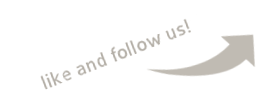
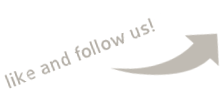
Updated arrow image and reset css

diff --git a/wp-content/themes/liquorice/style.css b/wp-content/themes/liquorice/style.css
@@ -166,13 +166,14 @@ div#site-title-div{
 	text-align:center;
 }
 .main-menu ul{
-    width: 598px;
+    width: 695px;
     margin: 0px auto;
 }
 .main-menu ul li {
 	float:left;
 	list-style:none;
 	position:relative; 
+        letter-spacing: 0px;
 }
 .ie6 .main-menu ul,
 .ie6 .main-menu ul li { 
@@ -181,7 +182,7 @@ div#site-title-div{
 .main-menu li a {
 	color: #0c2b43; 
 	display:block;
-	padding:10px 15px;
+	padding:12px 15px;
 	text-align:center;
 }
 .main-menu li a:hover {
@@ -254,9 +255,9 @@ div#site-title-div{
 #primaryContent {
 	clear:both;
  	float: left;
-	margin: 30px 30px 0 0;
+	margin: 0px 30px 0 0;
 	padding: 0 10px;
-	width: 1000px;
+	width: 980px;
         position: relative;
 }
 #primaryContent.blog-content{
@@ -589,6 +590,14 @@ div.aligncenter {
     height: 40px;
     width: 140px;
 }
+img#social-like-arrow{
+    background: transparent;
+    border: none;
+    position: absolute;
+    top: -65px;
+    left: 205px;
+    margin: 0px;
+}
 
 a.rss {
 	background:transparent url(images/socialMediaIcons.gif) -81px 0 no-repeat;
@@ -915,13 +924,6 @@ a:hover.facebook{
     float: right;
     width: 200px;
     height: 304px;
-}
-img#social-like-arrow{
-    background: transparent;
-    border: none;
-    position: absolute;
-    top: -90px;
-    left: 170px;
 }
 
 

diff --git a/wp-content/themes/liquorice/reset.css b/wp-content/themes/liquorice/reset.css
@@ -1,0 +1,48 @@
+/* http://meyerweb.com/eric/tools/css/reset/ 
+   v2.0 | 20110126
+   License: none (public domain)
+*/
+
+html, body, div, span, applet, object, iframe,
+h1, h2, h3, h4, h5, h6, p, blockquote, pre,
+a, abbr, acronym, address, big, cite, code,
+del, dfn, em, img, ins, kbd, q, s, samp,
+small, strike, strong, sub, sup, tt, var,
+b, u, i, center,
+dl, dt, dd, ol, ul, li,
+fieldset, form, label, legend,
+table, caption, tbody, tfoot, thead, tr, th, td,
+article, aside, canvas, details, embed, 
+figure, figcaption, footer, header, hgroup, 
+menu, nav, output, ruby, section, summary,
+time, mark, audio, video {
+	margin: 0;
+	padding: 0;
+	border: 0;
+	font-size: 100%;
+	font: inherit;
+	vertical-align: baseline;
+}
+/* HTML5 display-role reset for older browsers */
+article, aside, details, figcaption, figure, 
+footer, header, hgroup, menu, nav, section {
+	display: block;
+}
+body {
+	line-height: 1;
+}
+ol, ul {
+	list-style: none;
+}
+blockquote, q {
+	quotes: none;
+}
+blockquote:before, blockquote:after,
+q:before, q:after {
+	content: '';
+	content: none;
+}
+table {
+	border-collapse: collapse;
+	border-spacing: 0;
+}

diff --git a/wp-content/themes/liquorice/header.php b/wp-content/themes/liquorice/header.php
@@ -3,101 +3,102 @@
 <!--[if IE 7 ]>    <html <?php language_attributes(); ?> class="ie7"> <![endif]-->
 <!--[if (gt IE 7)|!(IE)]><!--> <html <?php language_attributes(); ?>> <!--<![endif]-->
 
-<head profile="http://gmpg.org/xfn/11">
-	<meta http-equiv="Content-Type" content="<?php bloginfo('html_type'); ?>; charset=<?php bloginfo('charset'); ?>" />
-	<meta name="keywords" content="dc, va, md, washington, virginia, maryland, photobooth, photobooths, wedding, weddings, corporate, party, parties, dc photobooth, dc photobooths, washington dc photobooth, washington dc photobooths, washington d.c. photobooth, washington d.c. photobooths, virginia photobooths, virginia photobooth, va photobooths, va photobooth, northern virginia photobooths, northern virginia photobooth, arlington photobooth, arlington photobooths, alexandria photobooth, alexandria photobooths, maryland photobooth, maryland photobooths, dc wedding photobooths" />
-	<meta name="description" content="Make your event more fun and memorable with DC Photobooths!  With one of the best photobooths in the business, DC Photobooths provides professional grade photographs with fun props while maintaining a professional and customizable decor that is sure to blend in perfectly with your event." />
+    <head profile="http://gmpg.org/xfn/11">
+        <meta http-equiv="Content-Type" content="<?php bloginfo('html_type'); ?>; charset=<?php bloginfo('charset'); ?>" />
+        <meta name="keywords" content="dc, va, md, washington, virginia, maryland, photobooth, photobooths, wedding, weddings, corporate, party, parties, dc photobooth, dc photobooths, washington dc photobooth, washington dc photobooths, washington d.c. photobooth, washington d.c. photobooths, virginia photobooths, virginia photobooth, va photobooths, va photobooth, northern virginia photobooths, northern virginia photobooth, arlington photobooth, arlington photobooths, alexandria photobooth, alexandria photobooths, maryland photobooth, maryland photobooths, dc wedding photobooths" />
+        <meta name="description" content="Make your event more fun and memorable with DC Photobooths!  With one of the best photobooths in the business, DC Photobooths provides professional grade photographs with fun props while maintaining a professional and customizable decor that is sure to blend in perfectly with your event." />
 
-    <title><?php wp_title('|', true, 'right'); ?> <?php bloginfo('name'); ?> <?php if ( !wp_title('', true, 'left') ); { ?> | <?php bloginfo('description'); ?> <?php } ?></title>
-	<link rel="stylesheet" type="text/css" media="all" href="<?php bloginfo( 'stylesheet_url' ); ?>" />
+        <title><?php wp_title('|', true, 'right'); ?> <?php bloginfo('name'); ?> <?php if (!wp_title('', true, 'left')) ; { ?> | <?php bloginfo('description'); ?> <?php } ?></title>
+        <link rel="stylesheet" type="text/css" media="all" href="<?php bloginfo('stylesheet_url'); ?>" />
+        <link rel="stylesheet" type="text/css" media="all" href="/wp-content/themes/liquorice/reset.css" />
         <script src="http://code.jquery.com/jquery-latest.js"></script>
-	<link href='http://fonts.googleapis.com/css?family=Lobster&subset=latin' rel='stylesheet' type='text/css'>
-	<link rel="alternate" type="application/rss+xml" title="RSS 2.0" href="<?php bloginfo('rss2_url'); ?>" />
-	<link rel="alternate" type="text/xml" title="RSS .92" href="<?php bloginfo('rss_url'); ?>" />
-	<link rel="alternate" type="application/atom+xml" title="Atom 1.0" href="<?php bloginfo('atom_url'); ?>" />
-	<link rel="pingback" href="<?php bloginfo('pingback_url'); ?>" />
-    <meta name="viewport" content="width=device-width; initial-scale=1.0; maximum-scale=1.0;" />
-<?php
-    wp_head();
-	if ( is_singular() ) wp_enqueue_script( 'comment-reply' );
-  ?>
-</head>
+        <link href='http://fonts.googleapis.com/css?family=Lobster&subset=latin' rel='stylesheet' type='text/css'>
+            <link rel="alternate" type="application/rss+xml" title="RSS 2.0" href="<?php bloginfo('rss2_url'); ?>" />
+            <link rel="alternate" type="text/xml" title="RSS .92" href="<?php bloginfo('rss_url'); ?>" />
+            <link rel="alternate" type="application/atom+xml" title="Atom 1.0" href="<?php bloginfo('atom_url'); ?>" />
+            <link rel="pingback" href="<?php bloginfo('pingback_url'); ?>" />
+            <meta name="viewport" content="width=device-width; initial-scale=1.0; maximum-scale=1.0;" />
+            <?php
+            wp_head();
+            if (is_singular())
+                wp_enqueue_script('comment-reply');
+            ?>
+    </head>
 
-<body <?php body_class(); ?> >
+    <body <?php body_class(); ?> >
 
-<div id="canvas">  
-<?php $options = get_option( 'liquorice_theme_options' ); ?>
+        <div id="canvas">  
+<?php $options = get_option('liquorice_theme_options'); ?>
 
-<!--	<div id="social-icons">
-		<?php if ( $options['twitterurl'] != '' ) : ?>
-			<a href="<?php echo $options['twitterurl']; ?>" class="twitter"><?php _e( 'Twitter', 'liquorice' ); ?></a>
-		<?php endif; ?>
+            <!--	<div id="social-icons">
+            <?php if ($options['twitterurl'] != '') : ?>
+                                        <a href="<?php echo $options['twitterurl']; ?>" class="twitter"><?php _e('Twitter', 'liquorice'); ?></a>
+            <?php endif; ?>
+            
+            <?php if ($options['facebookurl'] != '') : ?>
+                                        <a href="<?php echo $options['facebookurl']; ?>" class="facebook"><?php _e('Facebook', 'liquorice'); ?></a>
+            <?php endif; ?>
+            
+            <?php if (!$options['hiderss']) : ?>
+                                        <a href="<?php bloginfo('rss2_url'); ?>" class="rss"><?php _e('RSS Feed', 'liquorice'); ?></a>
+<?php endif; ?>
+                    </div> #social-icons-->
 
-		<?php if ( $options['facebookurl'] != '' ) : ?>
-			<a href="<?php echo $options['facebookurl']; ?>" class="facebook"><?php _e( 'Facebook', 'liquorice' ); ?></a>
-		<?php endif; ?>
-
-		<?php if ( ! $options['hiderss'] ) : ?>
-			<a href="<?php bloginfo( 'rss2_url' ); ?>" class="rss"><?php _e( 'RSS Feed', 'liquorice' ); ?></a>
-		<?php endif; ?>
-	</div> #social-icons-->
 
 
- 
-    <ul class="skip">
-      <li><a href=".menu">Skip to navigation</a></li>
-      <li><a href="#primaryContent">Skip to main content</a></li>
-      <li><a href="#secondaryContent">Skip to secondary content</a></li>
-      <li><a href="#footer">Skip to footer</a></li>
-    </ul>
+            <ul class="skip">
+                <li><a href=".menu">Skip to navigation</a></li>
+                <li><a href="#primaryContent">Skip to main content</a></li>
+                <li><a href="#secondaryContent">Skip to secondary content</a></li>
+                <li><a href="#footer">Skip to footer</a></li>
+            </ul>
 
-    <div id="header-wrap">
-   		<div id="header"> 
-	<?php $heading_tag = ( is_home() || is_front_page() ) ? 'h1' : 'h4'; ?>
-				<<?php echo $heading_tag; ?> id="site-title">
-					<span>
-						<a href="<?php echo home_url( '/' ); ?>" title="<?php echo esc_attr( get_bloginfo( 'name', 'display' ) ); ?>" rel="home"><div id="site-title-div">&nbsp;</div></a>
-					</span>
-				</<?php echo $heading_tag; ?>>
-				<div id="site-description"><?php bloginfo( 'description' ); ?></div>   
-      <!--by default your pages will be displayed unless you specify your own menu content under Menu through the admin panel-->
-		<div class="main-menu">
-                    <?php wp_page_menu( array( 'sort_column' => 'menu_order', 'container_class' => 'menu-header' ) ); ?>
-                </div>
-  	 </div> <!-- end #header-->
-         
-         <div id="main-social" style="text-align: center">
-		<?php if ( $options['twitterurl'] != '' ) : ?>
-			<a href="<?php echo $options['twitterurl']; ?>" class="twitter" target="blank"><?php _e( 'Twitter', 'liquorice' ); ?></a>
-		<?php endif; ?>
+            <div id="header-wrap">
+                <div id="header"> 
+<?php $heading_tag = ( is_home() || is_front_page() ) ? 'h1' : 'h4'; ?>
+                    <<?php echo $heading_tag; ?> id="site-title">
+                    <span>
+                        <a href="<?php echo home_url('/'); ?>" title="<?php echo esc_attr(get_bloginfo('name', 'display')); ?>" rel="home"><div id="site-title-div">&nbsp;</div></a>
+                    </span>
+                    </<?php echo $heading_tag; ?>>
+                    <div id="site-description"><?php bloginfo('description'); ?></div>   
+                    <!--by default your pages will be displayed unless you specify your own menu content under Menu through the admin panel-->
+                    <div class="main-menu">
+<?php wp_page_menu(array('sort_column' => 'menu_order', 'container_class' => 'menu-header')); ?>
+                    </div>
+                </div> <!-- end #header-->
 
-		<?php if ( $options['facebookurl'] != '' ) : ?>
-			<a href="<?php echo $options['facebookurl']; ?>" class="facebook" target="blank"><?php _e( 'Facebook', 'liquorice' ); ?></a>
-		<?php endif; ?>
+                <div id="main-social" style="text-align: center">
+                    <?php if ($options['twitterurl'] != '') : ?>
+                        <a href="<?php echo $options['twitterurl']; ?>" class="twitter" target="blank"><?php _e('Twitter', 'liquorice'); ?></a>
+                    <?php endif; ?>
 
-		<?php if ( ! $options['hiderss'] ) : ?>
-			<a href="<?php bloginfo( 'rss2_url' ); ?>" class="rss" target="blank"><?php _e( 'RSS Feed', 'liquorice' ); ?></a>
-		<?php endif; ?>
-	</div><!-- #social-icons-->
-      
- </div> <!-- end #header-wrap-->
- 
+                    <?php if ($options['facebookurl'] != '') : ?>
+                        <a href="<?php echo $options['facebookurl']; ?>" class="facebook" target="blank"><?php _e('Facebook', 'liquorice'); ?></a>
+                    <?php endif; ?>
 
-<script type="text/javascript">
-    $('.twitter, .facebook, .rss').hover(
-        function(){
-            $(this).stop().animate({
-                marginTop: '0px'
+                    <?php if (!$options['hiderss']) : ?>
+                        <a href="<?php bloginfo('rss2_url'); ?>" class="rss" target="blank"><?php _e('RSS Feed', 'liquorice'); ?></a>
+                    <?php endif; ?>
+                </div><!-- #social-icons-->
+
+            </div> <!-- end #header-wrap-->
+
+
+            <script type="text/javascript">
+                $('.twitter, .facebook, .rss').hover(
+                function(){
+                    $(this).stop().animate({
+                        marginTop: '0px'
+                    },
+                    300
+                );
                 },
-                300
-            );
-        },
-        function(){
-            $(this).stop().animate({
-                marginTop: '-20px'
-                },
-                300
-        );
-    });
-</script>
- 
+                function(){
+                    $(this).stop().animate({
+                        marginTop: '-20px'
+                    },
+                    300
+                );
+                });
+            </script>
